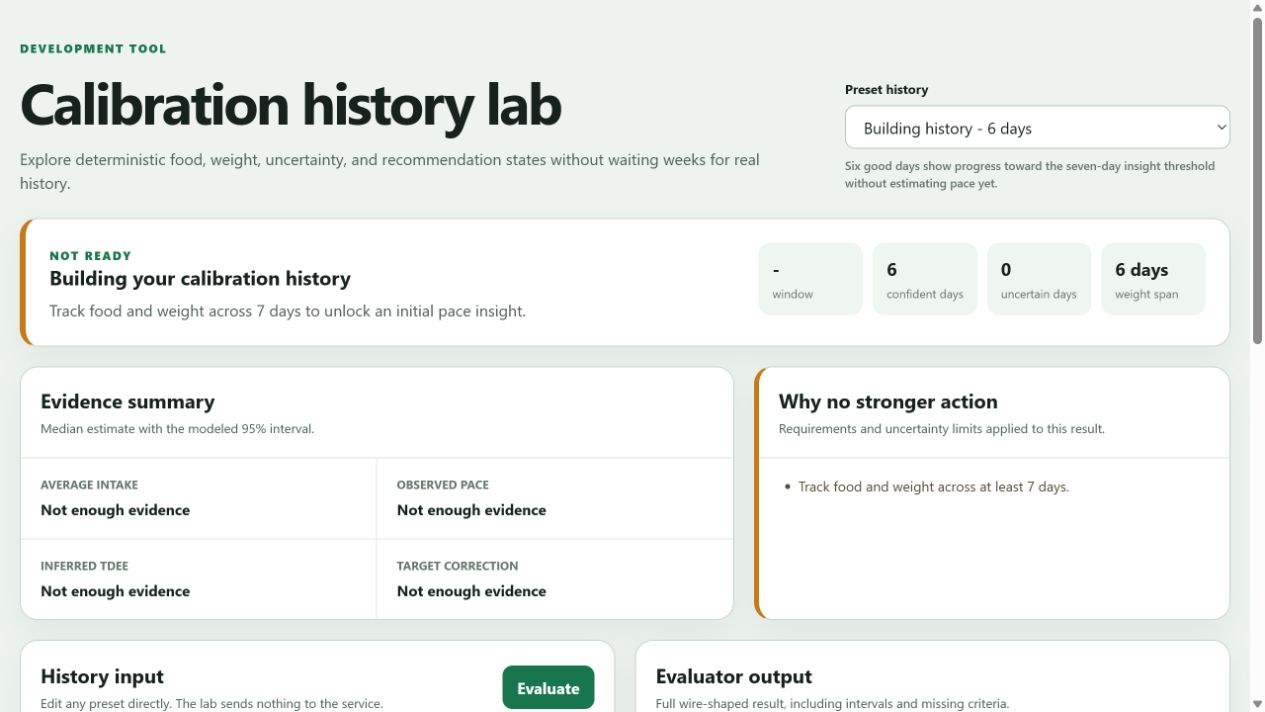
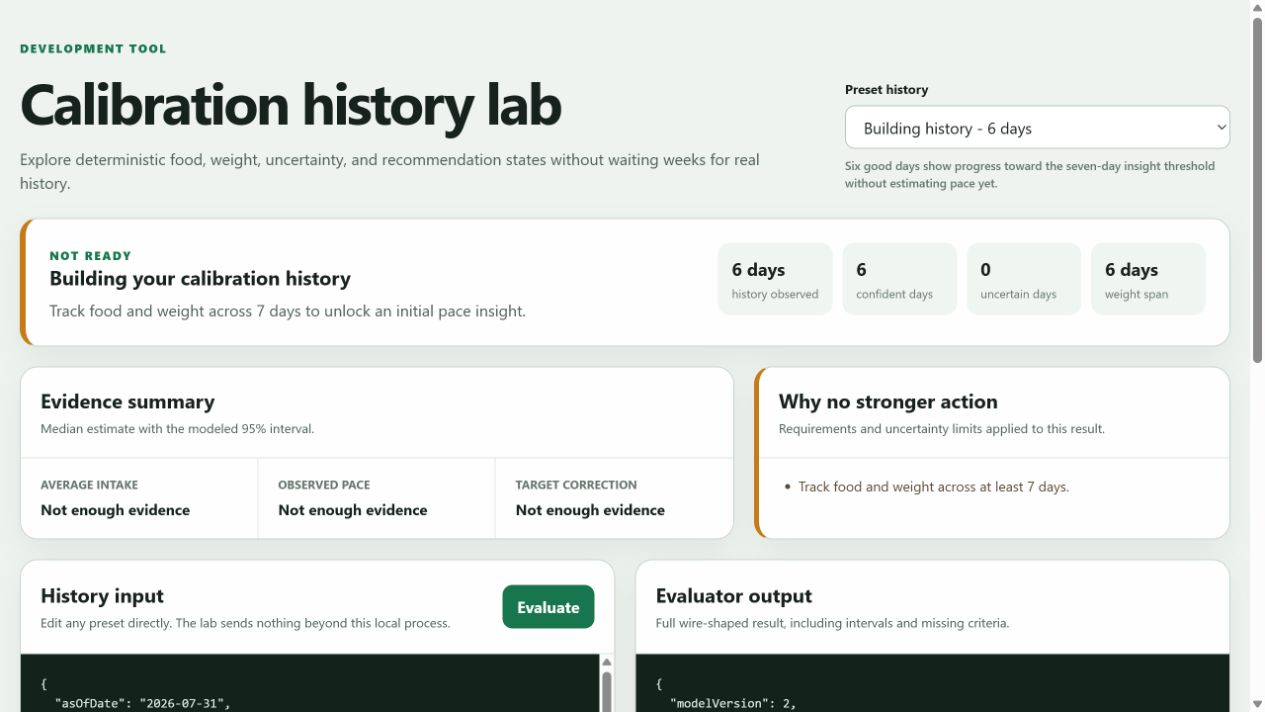
Clarify calibration history outcomes

diff --git a/shared/calibration.ts b/shared/calibration.ts
@@ -544,13 +544,15 @@ export function evaluateCalibration(input: CalibrationInput): CalibrationResult 
         summary = `The observed intake and weight trend support changing the daily target by ${recommendation.adjustmentStepKcal > 0 ? '+' : ''}${recommendation.adjustmentStepKcal} kcal. Nothing changes without approval.`;
     } else {
         status = 'insight';
-        headline = 'Your latest pace is available';
         const weekly = selected.weeklyWeightChange?.midpoint ?? 0;
         const direction = weekly < -0.01 ? 'losing' : weekly > 0.01 ? 'gaining' : 'maintaining';
-        const actionSummary = selected.missingCriteria.length > 0
-            ? 'A target change is not available yet; see the remaining criteria.'
-            : 'The evidence does not support a target change yet.';
-        summary = `The trend currently indicates ${direction} about ${Math.abs(weekly).toFixed(2)} kg per week. ${actionSummary}`;
+        if (selected.missingCriteria.length === 0) {
+            headline = 'Your progress is tracking as expected';
+            summary = `The trend currently indicates ${direction} about ${Math.abs(weekly).toFixed(2)} kg per week. The evidence shows progress is consistent with tracking expectations.`;
+        } else {
+            headline = 'Your latest pace is available';
+            summary = `The trend currently indicates ${direction} about ${Math.abs(weekly).toFixed(2)} kg per week. More consistent evidence will make this comparison more reliable; see the remaining criteria.`;
+        }
     }
 
     return {

diff --git a/backend/test/calibration-evaluator.test.js b/backend/test/calibration-evaluator.test.js
@@ -80,6 +80,9 @@ test('does not adjust a target when intake and observed pace agree with the prof
   assert.equal(result.status, 'insight');
   assert.equal(result.recommendation, null);
   assert.ok(Math.abs(result.estimates.targetAdjustmentKcal.midpoint) < 75);
+  assert.equal(result.headline, 'Your progress is tracking as expected');
+  assert.match(result.summary, /The evidence shows progress is consistent with tracking expectations\./);
+  assert.doesNotMatch(result.summary, /target change/i);
 });
 
 test('caps an actionable target correction at 150 kcal', () => {
@@ -104,6 +107,8 @@ test('requires at least three weights before recommending a change', () => {
   assert.equal(result.status, 'insight');
   assert.equal(result.recommendation, null);
   assert.ok(result.missingCriteria.some((criterion) => criterion.includes('at least 3 weights')));
+  assert.match(result.summary, /More consistent evidence will make this comparison more reliable/);
+  assert.doesNotMatch(result.summary, /target change is not available yet/i);
 });
 
 test('explains the 14-day action threshold when directional evidence appears earlier', () => {

diff --git a/tools/calibration-lab/main.js b/tools/calibration-lab/main.js
@@ -1,3 +1,5 @@
+import { formatDayCount, getWindowMetric } from './presentation.mjs';
+
 const elements = {
   scenario: document.querySelector('#preset-history'),
   description: document.querySelector('#scenario-description'),
@@ -77,10 +79,11 @@ function renderResult(result) {
   }
 
   elements.metrics.replaceChildren();
-  appendLabeledValue(elements.metrics, 'metric', 'window', result.selectedWindowDays ? `${result.selectedWindowDays} days` : '-');
+  const windowMetric = getWindowMetric(result);
+  appendLabeledValue(elements.metrics, 'metric', windowMetric.label, windowMetric.value);
   appendLabeledValue(elements.metrics, 'metric', 'confident days', result.dataQuality.confidentDays);
   appendLabeledValue(elements.metrics, 'metric', 'uncertain days', uncertainDays);
-  appendLabeledValue(elements.metrics, 'metric', 'weight span', `${result.dataQuality.weightSpanDays} days`);
+  appendLabeledValue(elements.metrics, 'metric', 'weight span', formatDayCount(result.dataQuality.weightSpanDays));
 
   elements.estimates.replaceChildren();
   const estimates = [
